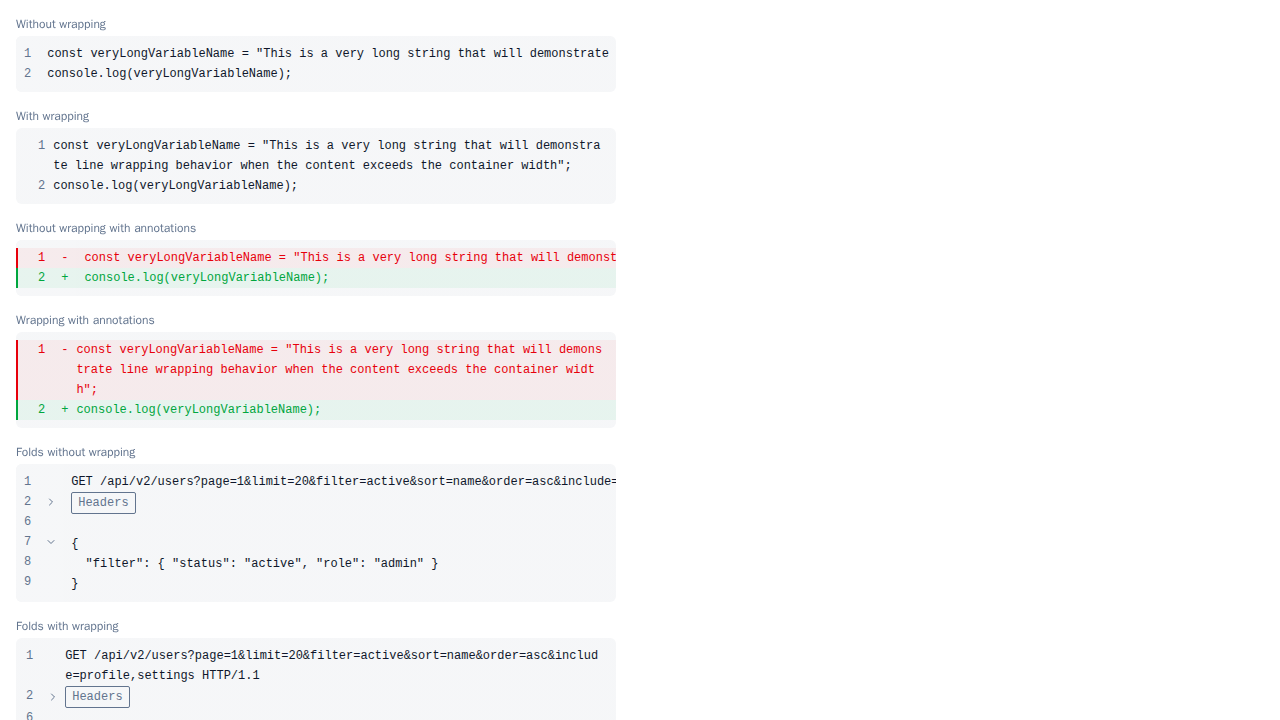
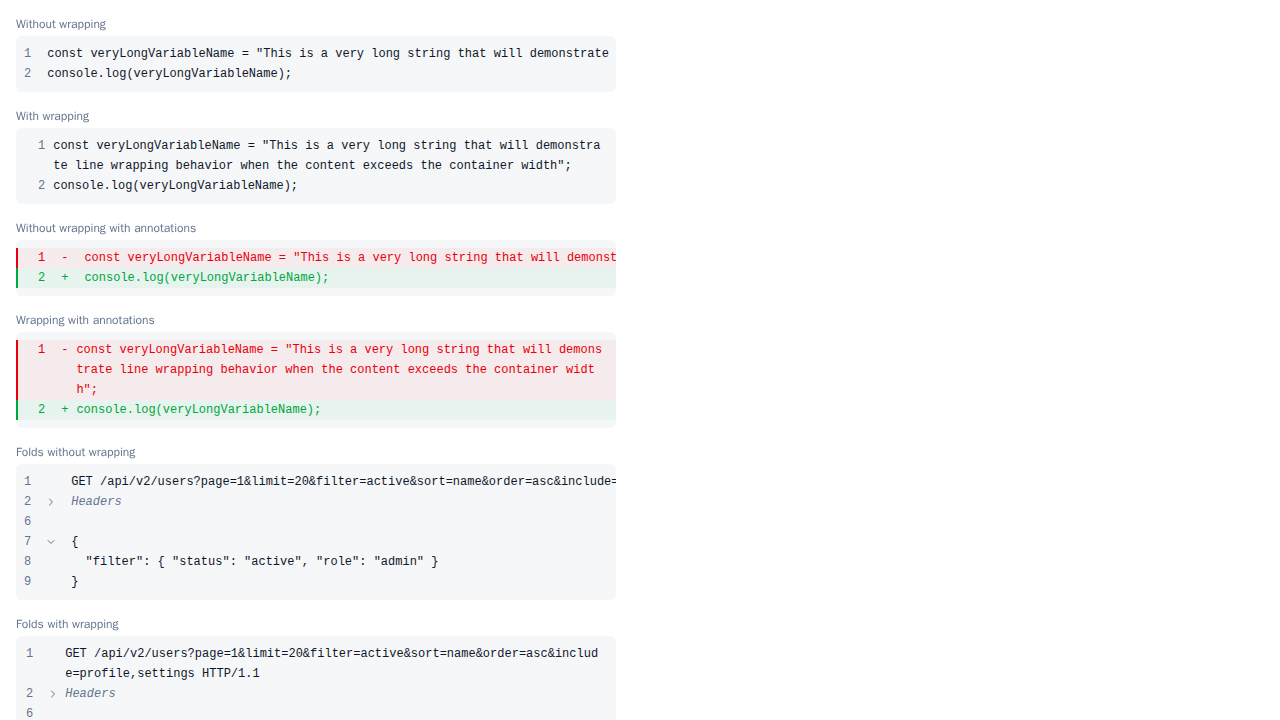
fix(code-snippet): WDS-72 visual fixes. Delete border, add italic

Changed region(s): [[0.0, 0.8556, 0.4688, 0.9778], [0.0625, 0.7639, 0.3438, 0.7944], [0.0625, 0.6722, 0.0938, 0.7028]]

diff --git a/packages/design-system/src/components/CodeSnippet/CodeSnippetCode.tsx b/packages/design-system/src/components/CodeSnippet/CodeSnippetCode.tsx
@@ -64,7 +64,7 @@ export const CodeSnippetCode: FC<CodeSnippetCodeProps> = ({ className, ...props 
           aria-label={`Collapsed region: ${label}, ${item.lineCount} lines`}
           onClick={() => toggleFold(item.fold.id)}
         >
-          <span className='inline-flex items-center rounded-2 border border-border-secondary px-6 text-xs leading-sm text-text-secondary hover:text-text-primary transition-colors'>
+          <span className='inline-flex items-center italic text-text-secondary hover:text-text-primary transition-colors'>
             {label}
           </span>
         </button>